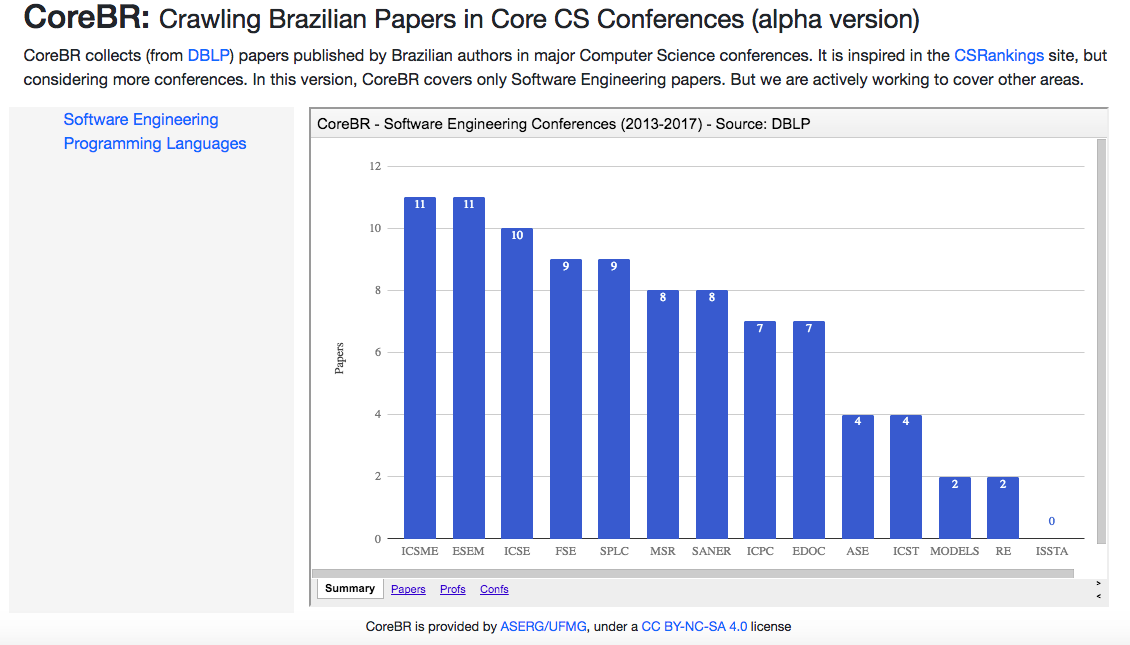
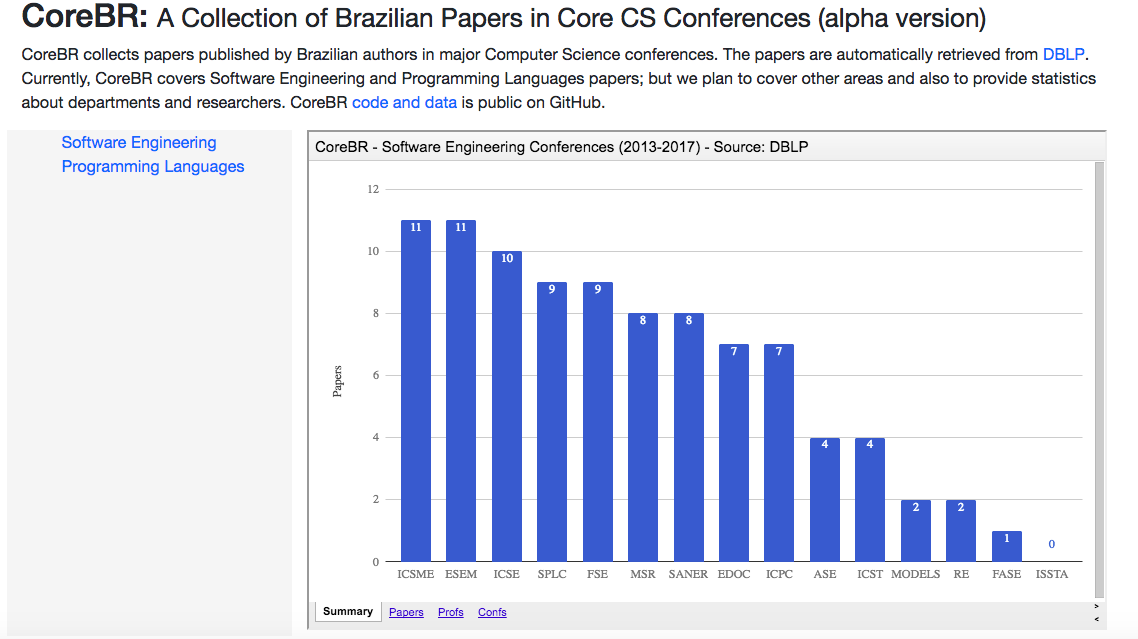
Changes in FAQ and index; adding to FASE to SE conferences

Changed region(s): [[0.0, 0.0, 0.9912, 0.9812]]

diff --git a/faq.html b/faq.html
@@ -20,8 +20,8 @@
     
    <title>CoreBR Project</title>
 
-   <link href="bootstrap.min.css" rel="stylesheet">
-   <link href="dashboard.css" rel="stylesheet">
+   <link href="./css/bootstrap.min.css" rel="stylesheet">
+   <link href="./css/dashboard.css" rel="stylesheet">
  </head>
 
  <body>
@@ -48,7 +48,7 @@
 
 <div class="container">
    
-<h2>Frequently Asked Questions</h2>
+<h2 class="text-center">Frequently Asked Questions</h2>
 
 
 <h6> Who maintain CoreBR? </h6>
@@ -74,53 +74,72 @@ conferences tracked by CoreBR during the period 2013-2017
 </ul>
 </p>
 
-<h6>What conferences are tracked?</h6>
-
-<p> First, it is important to mention that there is no predefined limit on the number of conferences 
-in each research area. But we do not intend to cover a large number of conferences. The number we 
-have in mind is at most 15 conferences per research area. For each area, it is mandatory to cover the
-top conferences and the below-the-fold conferences, as considered 
-by <a href="http://csrankings.org/">CSRankings</a>.</p>
-
 <h6>Why my paper is not listed?</h6>
 
 <p>
-Please, first check if it is a full paper, published in the conferences tracked by CoreBR (listed in
-the Confs sheet), in the last five years (2013-2017). If this is the case, also check if your 
-name is listed in the Profs sheet (which is a list of the Brazilian researchers tracked by CoreBR).
-If not, please open an <a href="https://github.com/aserg-ufmg/CoreBR/issues">issue</a> at GitHub, informing your name and 
-<a href="http://dblp.uni-trier.de/faq/How+can+I+fetch+all+publications+of+one+specific+author.html">PID</a> 
+Please, first check if it is a full paper, published in the 
+conferences tracked by CoreBR (listed in the Confs sheet), in the 
+last five years (2013-2017). If this is the case, also check if your 
+name is listed in the Profs sheet (which is a list of the Brazilian 
+researchers tracked by CoreBR).If not, please open an 
+<a href="https://github.com/aserg-ufmg/CoreBR/issues">issue</a> on 
+GitHub, informing your name, department, 
+and <a href="http://dblp.uni-trier.de/faq/How+can+I+fetch+all+publications+of+one+specific+author.html">PID</a> 
 at DBLP.</p>
+
+<h6>Which conferences are tracked?</h6>
+
+<p> First, there is no predefined limit on the number of conferences 
+in each research area. But we do not intend to cover a large number 
+of conferences. The number we have in mind is at most 15 conferences 
+per research area. For each area, it is mandatory to cover the
+top conferences and the below-the-fold conferences, as considered 
+by <a href="http://csrankings.org/">CSRankings</a>. </p>
+
 
 <h6>Why conference [Conf] is not covered?</h6>
 
-<p> We accept suggestions to track other conferences. However, as the name of the project suggests, 
-our main interest is on high-quality conferences, with good metrics (number of submitted/accepted papers,
-h5-index, etc) and also well-known sponsors (ACM SIGs, IEEE CS, etc). If you think this is the case of [Conf],
-please open an <a href="https://github.com/aserg-ufmg/CoreBR/issues">issue</a> at GitHub, informing 
-the statistics abut this conference in 2017 (see the 
-required statistics in the Confs sheet, in the spreadsheet with the results provided by CoreBR). </p>
+<p> We accept suggestions to track other conferences. However, 
+our main interest is on high-quality 
+conferences, with good metrics (number of submitted/accepted papers,
+h5-index, etc) and also well-known sponsors (ACM SIGs, IEEE CS, etc). 
+If you think this is the case of [Conf], please open an 
+<a href="https://github.com/aserg-ufmg/CoreBR/issues">issue</a> on 
+GitHub, informing the statistics abut this conference in 2017 (see the 
+required statistics in the Confs sheet, in the spreadsheet 
+with the results provided by CoreBR). Finally, we do not plan to 
+cover workshops or Brazilian conferences.</p>
 
+<!--
 <h6>How can I help so that CoreBR covers an research area X?</h6>
 
-<p> First, enter in contact providing basic statistics about the core conferences in X, in our opinion (see the
-required statistics in the Confs sheet, in the spreadsheet with the results provided by CoreBR).
-If we approve your list of conferences, you will also need to provide a list of Brazilian researchers
-in area X, including their 
+<p> First, enter in contact providing basic statistics about 
+the core conferences in X, in our opinion (see the required statistics 
+in the Confs sheet, in the spreadsheet with the results provided by CoreBR).
+If we approve your list of conferences, you will also need to provide 
+a list of Brazilian researchers in area X, including their 
 <a href="http://dblp.uni-trier.de/faq/How+can+I+fetch+all+publications+of+one+specific+author.html">DBLP PIDs</a>,
 (see Profs sheet).</p>
+
+
 
 <h6>What is your definition of research area?</h6>
 
 <p> A research area must have a Special Interest Group (Comissao Especial) at SBC or ACM.</p>
 
+--!>
+
 <h6>Do you plan to cover journals?</h6>
 
 <p> Yes, but only after covering conferences in a representative number of CS research areas.</p>
 
+<!---
 <h6>Do you plan to track papers from other countries?</h6>
 
-<p> Yes, by creating CoreXX forks; but not in the near future.</p>
+<p> Yes, we plan to encourage and help other groups to create CoreXX
+projects, covering papers in countries XX. Our code is public on GitHub,
+under MIT and CC licences.</p>
+--!>
 
 </div>
 

diff --git a/index.html b/index.html
@@ -60,10 +60,11 @@
 <p>
 CoreBR collects papers published by 
 Brazilian authors in major Computer Science conferences. The papers are 
-automatically collected from <a href="http://dblp.uni-trier.de">DBLP</a>.
+automatically retrieved from <a href="http://dblp.uni-trier.de">DBLP</a>.
 Currently, CoreBR covers Software Engineering and Programming Languages papers; 
-but we plan to cover other areas and also to provide statistics about Brazilian departments and
-researchers. Our <a href="https://github.com/aserg-ufmg/CoreBR">code and data</a> is available on GitHub and can be used for other countries.
+but we plan to cover other areas and also to provide statistics about departments and
+researchers. CoreBR <a href="https://github.com/aserg-ufmg/CoreBR">code and data</a> is 
+public on GitHub.
 
 <div class="row">
 
